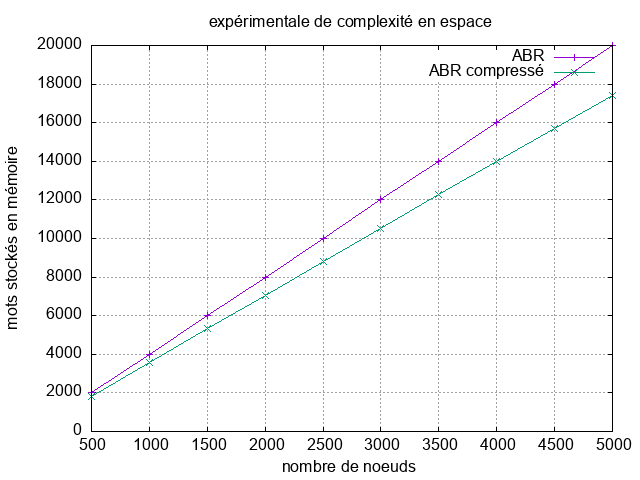
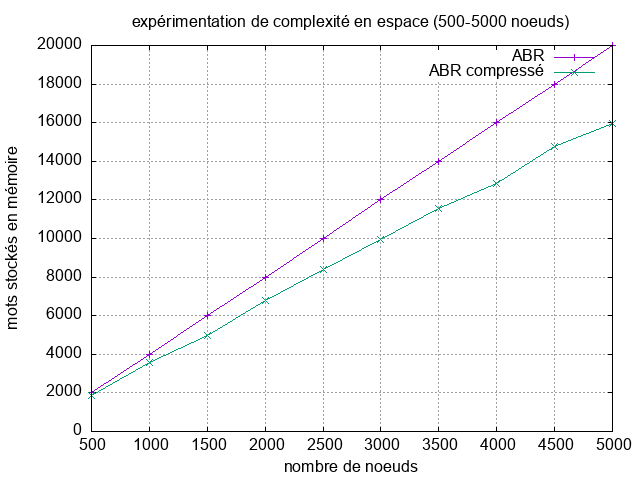
modification après soutenance: abr comp

diff --git a/README.md b/README.md
@@ -40,6 +40,13 @@ Temps pour chercher abr_comp: 2e-06
 ```
 # Image
 
+Nous utilisons gnuplot pour la représentation graphique de données.
+
+```
+cd data
+gnuplot
+```
+
 Pour espace.png
 ```
 set terminal png
@@ -47,18 +54,27 @@ set output 'espace.png'
 set grid
 set xlabel "nombre de noeuds"
 set ylabel "mots stockés en mémoire"
-set title "expérimentale de complexité en espace"
+set title "expérimentation de complexité en espace"
 plot "abr_espace" using 1:2 title "ABR" with linespoints,"abrcomp_espace" using 1:2 title "ABR compressé" with linespoints
-
 ```
+
+Pour espace_petit.png
+```
+set terminal png
+set output 'espace_petit.png'
+set xlabel "nombre de noeuds"
+set ylabel "mots stockés en mémoire"
+set title "expérimentation de complexité en espace (50-500 noeuds)"
+plot "abr_espace_petit" using 1:2 title "ABR" with linespoints, "abrcomp_espace_petit" using 1:2 title "ABR compressé" with linespoints
+```
+
 Pour temps.png
 ```
 set terminal png
 set output 'temps.png'
 set grid
-set title "expérimentale de complexité en temps"
+set title "expérimentation de complexité en temps"
 set xlabel "nombre de noeuds "
 set ylabel "sommes de temps pour chercher tous les noeuds"
 plot "chercher_abr" using 1:2 title "ABR" with linespoints,"chercher_abrcomp" using 1:2 title "ABR compressé" with linespoints
-
 ```
